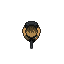
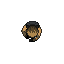
feat: changing player image depending on chosen weapon

Changed region(s): [[0.3125, 0.3438, 0.6562, 0.7812], [0.5312, 0.3125, 0.5625, 0.3438], [0.4375, 0.3125, 0.4688, 0.3438]]

diff --git a/src/item.py b/src/item.py
@@ -28,11 +28,6 @@ class ItemNotFoundError(Exception):
     pass
 
 
-ITEMS = {
-    "gun": (About("Оружие"),),
-}
-
-
 class ItemCollisionDetectingProcessor(esper.Processor):
     def process(self, **_):
         from render import Sprite
@@ -127,3 +122,45 @@ class ItemGroundingProcessor(esper.Processor):
             )
             self.world.add_component(item, MakeRenderableRequest())
             self.world.remove_component(ent, GroundItem)
+
+
+@component
+class Gun:
+    pass
+
+
+ITEMS = {}
+
+
+def init_items_registry(world: esper.World):
+    from creature import PlayerUninitialized
+
+    if not (player := utils.get.player(world)):
+        raise PlayerUninitialized("Игрок не инициализирован")
+
+    registry = {
+        "pistol": (
+            Gun(),
+            About(
+                "Armscor",
+                "Старенький пистолет филиппинского производства.<br>Старый, но надёжный!",
+            ),
+        ),
+        "machine_gun": (
+            Gun(),
+            About(
+                "Миниган",
+                "Эта пушка способна уничтожать зомби пачками.",
+            ),
+        ),
+        "sniper_rifle": (
+            Gun(),
+            About(
+                "AWP",
+                "Cнайперская винтовка британского производства.",
+            ),
+        ),
+    }
+
+    for key, val in registry.items():
+        ITEMS[key] = val

diff --git a/src/utils/make.py b/src/utils/make.py
@@ -10,7 +10,7 @@ from utils.fs import ResourcePath, dir_count
 from typing import Optional, Callable, Iterable
 
 from location import Position, SpawnPoint
-from animation import StateType
+from animation import Animation, StateType
 
 
 def main_menu_theme(settings) -> pygame_menu.Theme:
@@ -225,14 +225,42 @@ def creature(
     return creature
 
 
-def item_comps(id: str, *extra_comps):
+def item_comps(
+    id: str,
+    *extra_comps,
+    surface_preprocessor: Optional[
+        Callable[[pygame.surface.Surface], pygame.surface.Surface]
+    ] = None,
+    own_surface=False,
+):
     from meta import Id
     from item import Item, ItemNotFoundError, ITEMS
 
     if id not in ITEMS:
         raise ItemNotFoundError(f"Предмет с идентификатором {id} не найден")
 
-    return Id(id), Item(), *deepcopy(ITEMS[id]), *extra_comps
+    comps = []
+
+    if not own_surface:
+
+        def load_surface(path):
+            prep = surface_preprocessor
+            surf = pygame.image.load(path).convert_alpha()
+
+            if prep:
+                return prep(surf)
+
+            return surf
+
+        comps.append(Animation((load_surface(ResourcePath.frame(id, idx=1)),)))
+
+    return (
+        Id(id),
+        Item(),
+        *deepcopy(ITEMS[id]),
+        *comps,
+        *extra_comps,
+    )
 
 
 def item(world: esper.World, id: str, *extra_comps):

diff --git a/src/animation.py b/src/animation.py
@@ -1,4 +1,4 @@
-from item import Inventory
+from item import Equipment, Gun, Inventory
 import utils
 import esper
 import pygame
@@ -99,6 +99,15 @@ class StateChangingProcessor(esper.Processor):
                     states.add(StateType.Stands)
                     health.value = 0
 
+            if (
+                (equip := self.world.try_component(entity, Equipment))
+                and (inv := self.world.try_component(entity, Inventory))
+                and inv.slots
+                and (item := inv.slots[equip.item])
+                and (self.world.has_component(item, Gun))
+            ):
+                states.add(StateType.HoldsGun)
+
             states_comp.value = states
 
 
@@ -133,6 +142,13 @@ class StateHandlingProcessor(esper.Processor):
                     elif ani._frame == (len(dead_frames) - 1):
                         ani.paused = True
                     ani.delay = 400 // len(ani.frames)
+
+                continue
+
+            if StateType.HoldsGun in states:
+                ani.frames = ani.state_based_frames[StateType.HoldsGun]
+            elif StateType.Stands in states:
+                ani.frames = ani.state_based_frames[StateType.Stands]
 
             for part_ent in ani.children:
                 part = self.world.component_for_entity(part_ent, Part).type

diff --git a/src/main.py b/src/main.py
@@ -39,11 +39,6 @@ PROCESSORS = (
     RotationProcessor,
     DirectionSettingProcessor,
     #
-    # Animation
-    FrameCyclingProcessor,
-    StateChangingProcessor,
-    StateHandlingProcessor,
-    #
     # Damage
     DamageMakingProcessor,
     DamageDelayingProcessor,
@@ -85,6 +80,11 @@ PROCESSORS = (
     #
     # Events
     EventProcessor,
+    #
+    # Animation
+    FrameCyclingProcessor,
+    StateChangingProcessor,
+    StateHandlingProcessor,
     #
     # Time
     DayNightCyclingProcessor,
@@ -129,19 +129,11 @@ def fill_world(world: esper.World):
             pygame.transform.scale2x(s), 90
         ),
     )
-    return
-    zombie = utils.make.creature(
-        world,
-        "zombie",
-        SpawnPoint("zombie"),
-        Enemy(player),
-        *CREATURES["zombie"],
-        surface_preprocessor=lambda s: pygame.transform.rotate(s, -90),
-    )
 
 
 def fill_registers(world: esper.World):
     init_creatures_registry(world)
+    init_items_registry(world)
 
 
 if __name__ == "__main__":
